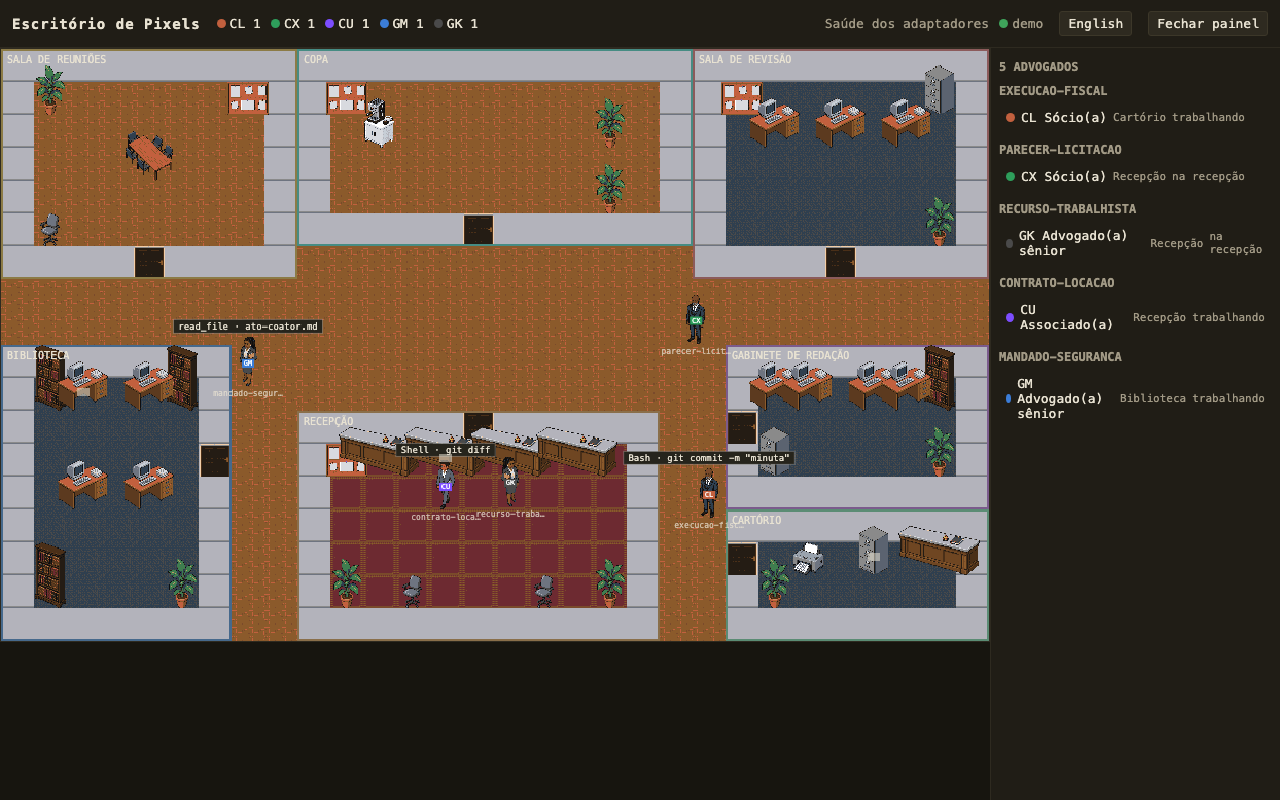
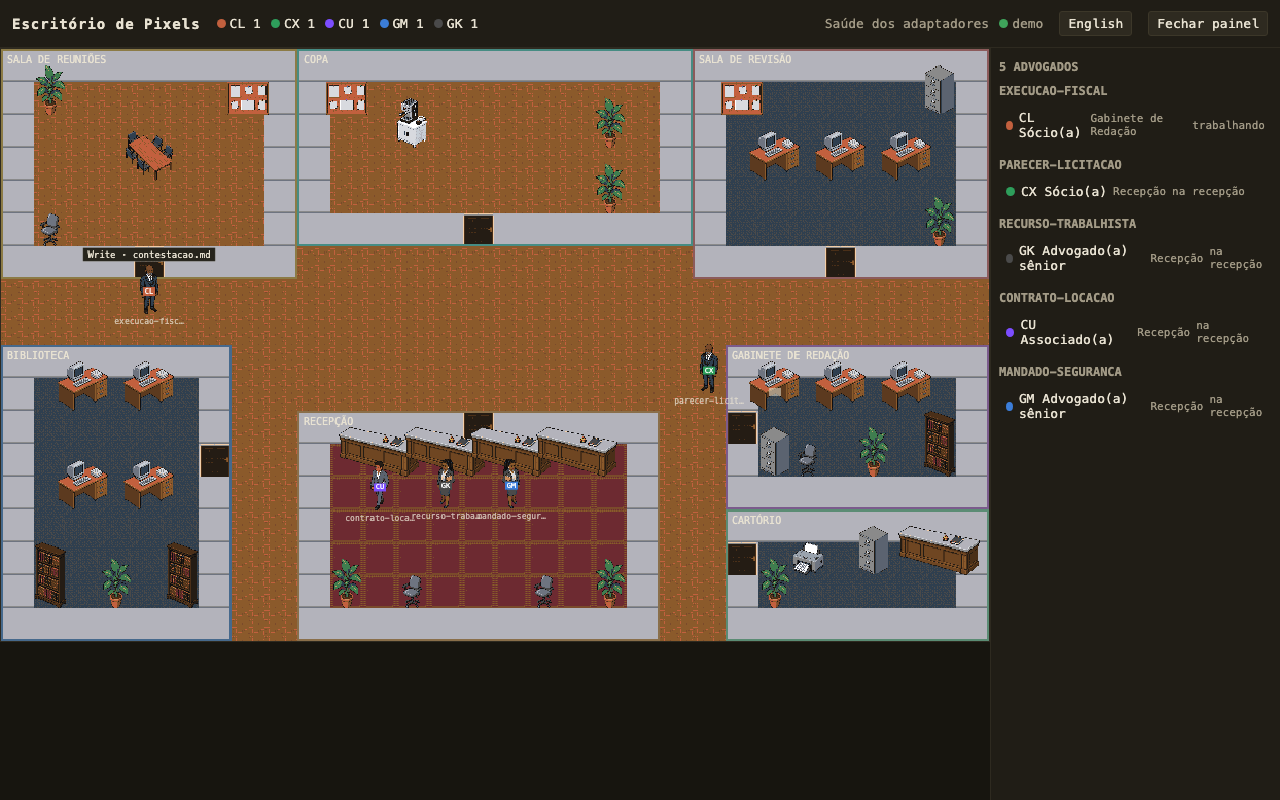
fix: postos do gabinete espaçados para mesas de 64 px
Mesas de 64 px cobrem meio tile de cada lado (âncora central), então postos com mesa ficam a 2 tiles: Gabinete com mesas em 23/25/27 e o 4º posto numa cadeira de leitura (24,12); estantes da Biblioteca para a parede do fundo; mesas da Revisão uma linha abaixo, liberando a linha do quadro; café da Copa uma coluna à direita; quadro da Recepção removido (os balcões de 96 px ocupam a parede). Teste novo em cliente-mundo: com os tamanhos do atlas, nenhum móvel de 64 px se sobrepõe a outro móvel da sala. Capturas demo-01..04 e demo-reduzido refeitas.

diff --git a/public/mundo.js b/public/mundo.js
@@ -19,22 +19,23 @@ export const SALAS = Object.freeze({
   copa: {
     id: 'copa', x0: 9, y0: 0, x1: 20, y1: 5, piso: 'piso-madeira', porta: { x: 14, y: 5 },
     postos: [posto(12, 3, null), posto(14, 3, null), posto(16, 3, null)],
-    decoracao: [movel('movel-cafe', 11, 2), movel('movel-planta', 18, 2), movel('movel-planta', 18, 4), movel('movel-quadro', 10, 1)],
+    decoracao: [movel('movel-cafe', 12, 2), movel('movel-planta', 18, 2), movel('movel-planta', 18, 4), movel('movel-quadro', 10, 1)],
   },
   revisao: {
     id: 'revisao', x0: 21, y0: 0, x1: 29, y1: 6, piso: 'piso-carpete', porta: { x: 25, y: 6 },
-    postos: [posto(23, 3, 'movel-mesa'), posto(25, 3, 'movel-mesa'), posto(27, 3, 'movel-mesa')],
+    postos: [posto(23, 4, 'movel-mesa'), posto(25, 4, 'movel-mesa'), posto(27, 4, 'movel-mesa')], // mesas na linha 3: a linha 1 fica livre para o quadro
     decoracao: [movel('movel-quadro', 22, 1), movel('movel-arquivo', 28, 1), movel('movel-planta', 28, 5)],
   },
   biblioteca: {
     id: 'biblioteca', x0: 0, y0: 9, x1: 6, y1: 17, piso: 'piso-carpete', porta: { x: 6, y: 12 },
     postos: [posto(2, 11, 'movel-mesa'), posto(4, 11, 'movel-mesa'), posto(2, 14, 'movel-mesa'), posto(4, 14, 'movel-mesa')],
-    decoracao: [movel('movel-estante', 1, 10), movel('movel-estante', 5, 10), movel('movel-estante', 1, 16), movel('movel-planta', 5, 16)],
+    decoracao: [movel('movel-estante', 1, 16), movel('movel-planta', 3, 16), movel('movel-estante', 5, 16)], // estantes na parede do fundo, longe das mesas de 64 px
   },
   gabinete: {
     id: 'gabinete', x0: 22, y0: 9, x1: 29, y1: 13, piso: 'piso-carpete', porta: { x: 22, y: 11 },
-    postos: [posto(23, 11, 'movel-mesa'), posto(24, 11, 'movel-mesa'), posto(26, 11, 'movel-mesa'), posto(27, 11, 'movel-mesa')],
-    decoracao: [movel('movel-estante', 28, 10), movel('movel-planta', 28, 12), movel('movel-arquivo', 23, 12)],
+    // Mesas de 64 px cobrem meio tile de cada lado: postos com mesa a 2 tiles; o 4º posto é uma cadeira de leitura.
+    postos: [posto(23, 11, 'movel-mesa'), posto(25, 11, 'movel-mesa'), posto(27, 11, 'movel-mesa'), posto(24, 12, 'movel-cadeira', 24, 12)],
+    decoracao: [movel('movel-arquivo', 23, 12), movel('movel-planta', 26, 12), movel('movel-estante', 28, 12)],
   },
   recepcao: {
     id: 'recepcao', x0: 9, y0: 11, x1: 19, y1: 17, piso: 'piso-tapete', porta: { x: 14, y: 11 },
@@ -42,7 +43,7 @@ export const SALAS = Object.freeze({
       posto(11, 13, 'movel-balcao'), posto(13, 13, 'movel-balcao'), posto(15, 13, 'movel-balcao'), posto(17, 13, 'movel-balcao'),
       posto(12, 15, 'movel-cadeira', 12, 16), posto(16, 15, 'movel-cadeira', 16, 16),
     ],
-    decoracao: [movel('movel-planta', 10, 16), movel('movel-planta', 18, 16), movel('movel-quadro', 10, 12)],
+    decoracao: [movel('movel-planta', 10, 16), movel('movel-planta', 18, 16)], // sem quadro: os balcões de 96 px ocupam a parede do fundo
   },
   cartorio: {
     id: 'cartorio', x0: 22, y0: 14, x1: 29, y1: 17, piso: 'piso-carpete', porta: { x: 22, y: 15 },

diff --git a/test/cliente-mundo.test.js b/test/cliente-mundo.test.js
@@ -1,5 +1,6 @@
 import { test } from 'node:test';
 import assert from 'node:assert/strict';
+import { readFileSync } from 'node:fs';
 import {
   SALAS, ORDEM_SALAS, NOS, ARESTAS, COLUNAS, LINHAS, LARGURA, ALTURA,
   noDaSala, caminhoEntreNos, noMaisProximo, salaEm, ehParede, ehPorta, tipoDePiso, posicaoJuntoAPorta, postosDaSala,
@@ -154,5 +155,29 @@ test('posicaoJuntoAPorta percorre só o interior livre: distinta, dentro da sala
       vistos.add(chave);
     }
     assert.deepEqual(posicaoJuntoAPorta(id, livres), posicaoJuntoAPorta(id, 0), `${id}: índice não dá a volta ao esgotar o interior livre`);
+  }
+});
+
+test('móveis de 64 px (mesa, quadro) não se sobrepõem a nenhum outro móvel da sala, com os tamanhos do atlas', () => {
+  const atlas = JSON.parse(readFileSync(new URL('../public/arte/atlas.json', import.meta.url), 'utf8'));
+  const tamanho = new Map(atlas.map((q) => [q.id, { w: q.w, h: q.h }]));
+  // Mesma âncora do render: centro da base do sprite no centro da base do tile.
+  const caixa = (m) => {
+    const { w, h } = tamanho.get(m.sprite);
+    const x = (m.x + 0.5) * 32 - w / 2;
+    const y = (m.y + 1) * 32 - h;
+    return { sprite: m.sprite, x0: x, x1: x + w, y0: y, y1: y + h, w };
+  };
+  const cruzam = (a, b) => a.x0 < b.x1 && b.x0 < a.x1 && a.y0 < b.y1 && b.y0 < a.y1;
+  for (const s of Object.values(SALAS)) {
+    const moveis = [...s.decoracao, ...s.postos.filter((p) => p.movel).map((p) => p.movel)].map(caixa);
+    for (let i = 0; i < moveis.length; i += 1) {
+      for (let j = i + 1; j < moveis.length; j += 1) {
+        const a = moveis[i];
+        const b = moveis[j];
+        if (a.w !== 64 && b.w !== 64) continue;
+        assert.equal(cruzam(a, b), false, `${s.id}: ${a.sprite} (${a.x0}..${a.x1}) sobrepõe ${b.sprite} (${b.x0}..${b.x1})`);
+      }
+    }
   }
 });
